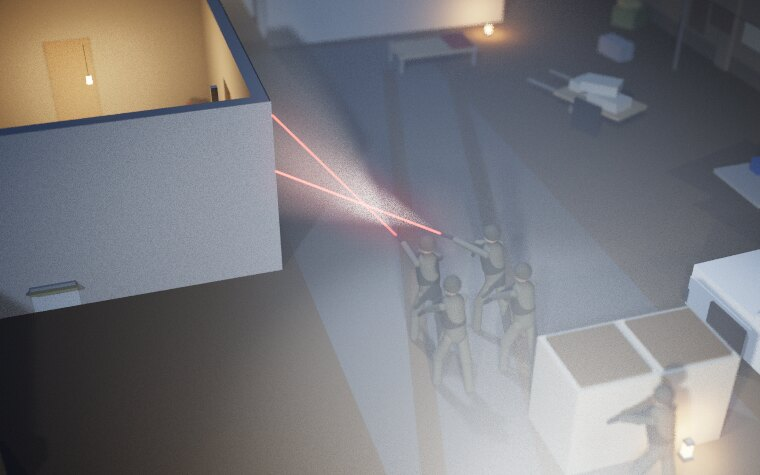
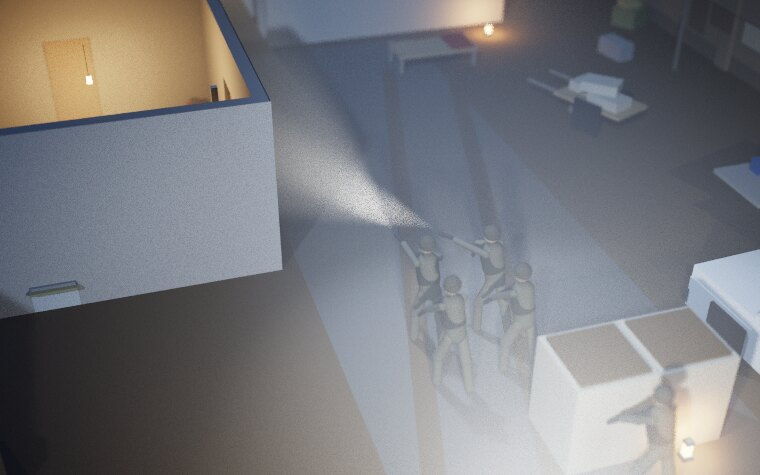
The plan mode mission's menu picture shows no gun lasers
The picture tool leaves the red lines out for a level whose frame plays
with no teammate lasers, and the picture is rendered again.

Changed region(s): [[0.3632, 0.2947, 0.575, 0.5011], [0.3329, 0.2358, 0.3934, 0.2947]]

diff --git a/tools/menu-art.ts b/tools/menu-art.ts
@@ -331,7 +331,7 @@ async function render(m: Mission, O: Opts): Promise<Cam> {
         return; }
       const pitch = Math.atan2(1.05 - 1.4, dist), muzzle = addMan(p, f, D, false, 'rifle', pitch), dir: V3 = [f[0] * Math.cos(pitch), Math.sin(pitch), f[1] * Math.cos(pitch)];
       spots.push({ p: [muzzle[0] + dir[0] * 0.06, muzzle[1] + 0.05, muzzle[2] + dir[2] * 0.06], d: dir, ci: Math.cos(7 * DEG), co: Math.cos(17 * DEG), I: [24, 23, 21], range: 26, rad: 0.02, vol: 1.0 });
-      const hit = trace(S, muzzle[0], muzzle[1], muzzle[2], dir[0], dir[1], dir[2], 40, F_SHADOW, false) ? hT : 40; lasers.push({ a: muzzle, b: [muzzle[0] + dir[0] * hit, muzzle[1] + dir[1] * hit, muzzle[2] + dir[2] * hit] });
+      const hit = trace(S, muzzle[0], muzzle[1], muzzle[2], dir[0], dir[1], dir[2], 40, F_SHADOW, false) ? hT : 40; if ((d.scenarios as any)?.lesson?.rails?.lasers !== false) lasers.push({ a: muzzle, b: [muzzle[0] + dir[0] * hit, muzzle[1] + dir[1] * hit, muzzle[2] + dir[2] * hit] });
     });
     subject.push(...places);
     // the one man a snatch is for: stood where the level has him, facing the way they come

diff --git a/docs/agents/missions.md b/docs/agents/missions.md
@@ -424,7 +424,7 @@ title may now live in another file of this folder: `grep -l '<title>' docs/agent
     by callsign, so a checkpoint put back stages what is left.
   - **Level facts**: built on the look's kit (one file, no look twin), no glass, one pickup (`carlamps-check` row), no response block; the outside camps' groups are `checkpoint.east` /
     `checkpoint.back` (`road` is a structure word to the lived count); a NEW level, so no save or tape is refused. Furnished for what the post is: the relay's dish and generator behind the
-    hall, a cooking corner, washing, a bed carried out, the runner's motorbike. The row opens at night (a row cannot carry its own hour). The menu picture is `tools/menu-art.ts`'s.
+    hall, a cooking corner, washing, a bed carried out, the runner's motorbike. The row opens at night (a row cannot carry its own hour). The menu picture is `tools/menu-art.ts`'s, which draws no gun laser for a level whose frame says `rails.lasers: false`.
   - **Checks, and what was measured** (2026-10-22, on the build head of that evening merged in; no new switch: the mission rides the frame's `RAILS.on`, `?rails=0`, and plan
     mode's `CMDRING.plan`, `?qplan=0`; frozen words for a headless run: `TPS_RAILS=1 TPS_QRING=1 TPS_QPLAN=1 TPS_PLANLOOK=1 TPS_PLANWAITS=1 TPS_PLANKNEE=1`, which `lesson-gate` gives a
     level whose steps allow `plan`). `bun run tools/qa/tutplan-check.ts` (probe `tutplan`, family `missions`): 8 lines, ALL PASS on both stands; `TUTPLAN_BREAK=1` (no step allows
